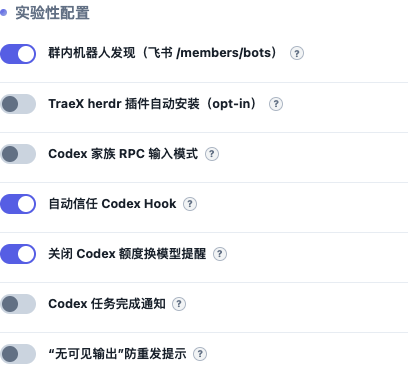
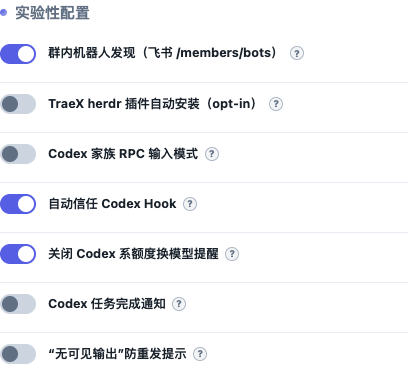
fix(cli): 补齐 TraeX 额度提醒保护与网关参数兼容

Changed region(s): [[0.2941, 0.617, 0.5882, 0.6787]]

diff --git a/test/codex-model-nudge.test.ts b/test/codex-model-nudge.test.ts
@@ -6,10 +6,11 @@ import { config } from '../src/config.js';
 import { globalConfigPath, mergeDashboardConfig } from '../src/global-config.js';
 import { createCodexAdapter } from '../src/adapters/cli/codex.js';
 import { createTraexAdapter } from '../src/adapters/cli/traex.js';
+import { ALL_CLI_IDS, createCliAdapterSync } from '../src/adapters/cli/registry.js';
 
 const override = 'notice.hide_rate_limit_model_nudge=true';
 
-describe('Codex low-quota model-switch protection', () => {
+describe('Codex-family low-quota model-switch protection', () => {
   let fixtureDir: string;
   beforeEach(() => {
     fixtureDir = mkdtempSync(join(tmpdir(), 'botmux-model-nudge-'));
@@ -24,46 +25,59 @@ describe('Codex low-quota model-switch protection', () => {
     rmSync(fixtureDir, { recursive: true, force: true });
   });
 
-  it.each([
+  const launches = [
     { kind: 'fresh', resume: false },
     { kind: 'resume', resume: true, resumeSessionId: 'existing-thread' },
     { kind: 'fork', resume: true, forkSession: true, resumeSessionId: 'existing-thread' },
     { kind: 'RPC viewer', resume: true, remoteWsUrl: 'ws://127.0.0.1:9000', remoteThreadId: 'existing-thread' },
-  ])('protects $kind launches by default and preserves opt-out across reloads', (launch) => {
-    const adapter = createCodexAdapter('/usr/bin/codex');
-    for (const enabled of [undefined, false, true]) {
-      if (enabled !== undefined) mergeDashboardConfig({ hideCodexRateLimitModelNudge: enabled });
-      for (const restricted of [false, true]) {
-        const args = adapter.buildArgs({
-          sessionId: 'botmux-thread', ...launch,
-          model: 'gpt-6-astra',
-          disableCliBypass: restricted,
-          hideRateLimitModelNudge: config.hideCodexRateLimitModelNudge,
-        });
-        expect(args.includes(override)).toBe(enabled !== false);
-        expect(args).not.toContain('notice.hide_rate_limit_model_nudge=false');
-        if (enabled !== false) {
-          expect(args[args.indexOf(override) - 1]).toBe('-c');
-          if (args.includes('existing-thread')) {
-            expect(args.indexOf(override)).toBeLessThan(args.indexOf('existing-thread'));
+  ];
+  const adapters = [
+    { cli: 'Codex', adapter: createCodexAdapter('/usr/bin/codex'), launches },
+    { cli: 'SpineCodex path override', adapter: createCodexAdapter('/usr/bin/spine-codex'), launches },
+    { cli: 'TraeX', adapter: createTraexAdapter('/usr/bin/traex'), launches: launches.filter(l => l.kind !== 'fork') },
+  ];
+  it.each(adapters.flatMap(({ cli, adapter, launches }) => launches.map(launch => ({ cli, adapter, kind: launch.kind, launch }))))(
+    'protects $cli $kind launches by default and preserves opt-out across reloads', ({ adapter, launch }) => {
+      for (const enabled of [undefined, false, true]) {
+        if (enabled !== undefined) mergeDashboardConfig({ hideCodexRateLimitModelNudge: enabled });
+        for (const restricted of [false, true]) {
+          const args = adapter.buildArgs({
+            sessionId: 'botmux-thread', ...launch,
+            model: 'gpt-6-astra',
+            disableCliBypass: restricted,
+            hideRateLimitModelNudge: config.hideCodexRateLimitModelNudge,
+          });
+          expect(args.includes(override)).toBe(enabled !== false);
+          expect(args).not.toContain('notice.hide_rate_limit_model_nudge=false');
+          if (enabled !== false) {
+            expect(args[args.indexOf(override) - 1]).toBe('-c');
+            if (args.includes('existing-thread')) {
+              expect(args.indexOf(override)).toBeLessThan(args.indexOf('existing-thread'));
+            }
           }
+          if (!launch.remoteWsUrl) expect(args[args.indexOf('--model') + 1]).toBe('gpt-6-astra');
         }
-        if (!launch.remoteWsUrl) expect(args[args.indexOf('--model') + 1]).toBe('gpt-6-astra');
       }
-    }
-    expect(readFileSync(join(fixtureDir, '.codex/config.toml'), 'utf8')).toBe('model = "gpt-6-astra"\n');
-  });
+      expect(readFileSync(join(fixtureDir, '.codex/config.toml'), 'utf8')).toBe('model = "gpt-6-astra"\n');
+    },
+  );
 
   it('ignores malformed persisted values and retains the default protection', () => {
     writeFileSync(globalConfigPath(), JSON.stringify({ dashboard: { hideCodexRateLimitModelNudge: 'false' } }));
     expect(config.hideCodexRateLimitModelNudge).toBe(true);
   });
 
-  it('does not pass Codex-specific notice settings to another CLI', () => {
-    const args = createTraexAdapter('/usr/bin/traex').buildArgs({
-      sessionId: 'other-cli', resume: false,
-      hideRateLimitModelNudge: config.hideCodexRateLimitModelNudge,
-    });
-    expect(args.join(' ')).not.toContain('hide_rate_limit_model_nudge');
-  });
+  it.each(ALL_CLI_IDS.filter(id => id !== 'codex' && id !== 'traex'))(
+    'does not alter %s launch arguments when protection is toggled', (id) => {
+      const adapter = createCliAdapterSync(id, `/usr/bin/${id}`);
+      const args = adapter.buildArgs({
+        sessionId: 'other-cli', resume: false,
+        hideRateLimitModelNudge: config.hideCodexRateLimitModelNudge,
+      });
+      expect(args.join(' ')).not.toContain('hide_rate_limit_model_nudge');
+      expect(args).toEqual(adapter.buildArgs({
+        sessionId: 'other-cli', resume: false, hideRateLimitModelNudge: false,
+      }));
+    },
+  );
 });

diff --git a/src/dashboard/web/i18n.ts b/src/dashboard/web/i18n.ts
@@ -1545,8 +1545,8 @@ const zh = {
   'settings.herdrTraexUnsupported': '当前 herdr 不支持插件；需 ≥ 0.7.0，请先运行 herdr update',
   'settings.codexRpcInput': 'Codex 家族 RPC 输入模式',
   'settings.codexRpcInputHelp': '实验性，默认关闭。对 codex / traex 机器人（仅 tmux 后端），用户消息经 app-server JSON-RPC 通道注入，绕开 codex 终端粘贴丢消息的问题（pane 仍跑真实 --remote TUI 渲染）。sandbox/隔离/审批门控/wrapper/带启动命令的会话自动回退传统粘贴。',
-  'settings.hideCodexRateLimitModelNudge': '关闭 Codex 额度换模型提醒',
-  'settings.hideCodexRateLimitModelNudgeHelp': '默认开启。关闭额度接近上限时的换模型弹窗，避免发送消息的回车误确认切换。仅影响 Botmux 启动的 Codex，关闭后遵循 Codex 自身配置。新启动的 CLI 进程生效，不会切回已有会话的模型，也不会增加额度。',
+  'settings.hideCodexRateLimitModelNudge': '关闭 Codex 系额度换模型提醒',
+  'settings.hideCodexRateLimitModelNudgeHelp': '默认开启。关闭 Codex / TraeX 在额度接近上限时的换模型弹窗，避免发送消息的回车误确认切换。关闭后遵循 CLI 自身配置；Aiden 网关不支持此参数。新启动的 CLI 进程生效，不会切回已有会话的模型，也不会增加额度。',
   'settings.bypassCodexHookTrust': '自动信任 Codex Hook',
   'settings.bypassCodexHookTrustHelp': '默认开启。Codex 0.14x 会弹交互式 hook 信任门（Press t to trust）；botmux 每次升级重写自装 hook 会让 hash 变化、门重新弹出，托管会话没人能按 t → 首条消息卡死。开启后对 codex / traex 普通 TUI 传 --dangerously-bypass-hook-trust。注意：该 flag 信任 codex 见到的所有 hook 来源（含项目 .codex/hooks.json 与已启用插件），不只 botmux 自装的；不想自动信任第三方项目/插件 hook 可关闭。受限机器人（关绕过）始终不受影响。下次会话生效，不影响已存活的 pane。',
   'settings.codexNotifier': 'Codex 任务完成通知',
@@ -4460,8 +4460,8 @@ const en: Record<keyof typeof zh, string> = {
   'settings.herdrTraexUnsupported': 'This herdr does not support plugins; requires >= 0.7.0. Run herdr update first',
   'settings.codexRpcInput': 'Codex-family RPC input mode',
   'settings.codexRpcInputHelp': 'Experimental, off by default. For codex / traex bots (tmux backend only), user messages are injected via the app-server JSON-RPC channel, bypassing codex terminal paste-drops (the pane still runs the real --remote TUI). Sandbox/isolation/approval-gated/wrapper/startup-command sessions fall back to paste.',
-  'settings.hideCodexRateLimitModelNudge': 'Hide Codex quota model-switch reminder',
-  'settings.hideCodexRateLimitModelNudgeHelp': 'On by default. Suppresses the low-quota model-switch picker so a message submit cannot accidentally confirm a switch. Applies only to Codex launched by Botmux; turn off to follow Codex settings. Takes effect for newly started CLI processes. Does not restore existing session models or increase quota.',
+  'settings.hideCodexRateLimitModelNudge': 'Hide Codex-family quota model-switch reminder',
+  'settings.hideCodexRateLimitModelNudgeHelp': 'On by default. Suppresses the Codex / TraeX low-quota model-switch picker so a message submit cannot accidentally confirm a switch. Turn off to follow CLI settings. The Aiden gateway cannot forward this option. Takes effect for newly started CLI processes. Does not restore existing session models or increase quota.',
   'settings.bypassCodexHookTrust': 'Auto-trust Codex hooks',
   'settings.bypassCodexHookTrustHelp': 'On by default. Codex 0.14x shows an interactive hook-trust gate ("Press t to trust"); every botmux upgrade rewrites its bundled hook so the hash changes and the gate re-fires, and a botmux-managed session has no one to press t → the first message wedges. When on, codex / traex plain-TUI launches pass --dangerously-bypass-hook-trust. Note: that flag trusts ALL hook sources codex sees (including a project .codex/hooks.json and enabled plugins), not only botmux\'s — turn it off if you do not want third-party project/plugin hooks auto-trusted. Restricted bots (bypass disabled) are never affected. Takes effect on the next session; running panes are unchanged.',
   'settings.codexNotifier': 'Codex task completion notifications',

diff --git a/src/adapters/cli/traex.ts b/src/adapters/cli/traex.ts
@@ -227,7 +227,12 @@ export function createTraexAdapter(pathOverride?: string): CliAdapter {
     sandboxReadonlyPaths: () => [...TRAE_MIGRATION_DONE_MARKERS],
     get resolvedBin(): string { return (cachedBin ??= resolveCommand(rawBin)); },
 
-    buildArgs({ sessionId, resume, resumeSessionId, workingDir, model, reasoningEffort, modelBackendVariant, disableCliBypass, bypassHookTrust, remoteWsUrl, remoteThreadId, shellSubprocessEnv, nativeSubagentRuntimeHookCommand }) {
+    buildArgs({ sessionId, resume, resumeSessionId, workingDir, model, reasoningEffort, modelBackendVariant, disableCliBypass, bypassHookTrust, hideRateLimitModelNudge, remoteWsUrl, remoteThreadId, shellSubprocessEnv, nativeSubagentRuntimeHookCommand }) {
+      // TraeX shares Codex's low-quota picker and notice setting. Disable it
+      // per process so a message-submit Enter cannot confirm a model switch.
+      const modelNudgeArgs = hideRateLimitModelNudge
+        ? ['-c', 'notice.hide_rate_limit_model_nudge=true']
+        : [];
       // Hybrid RPC input mode (codex-family): attach the TUI to the botmux-owned
       // app-server thread; input flows via JSON-RPC (see codex-rpc-engine + worker)
       // instead of a drop-prone paste. TRAE CLI shares codex's --remote/resume
@@ -236,7 +241,7 @@ export function createTraexAdapter(pathOverride?: string): CliAdapter {
         // -c check_for_update_on_startup=false: RPC pane has no terminal input path,
         // so an interactive update dialog would freeze the resume. TraeX shares
         // codex's config schema; disable at the process level, never user-global.
-        return ['--remote', remoteWsUrl, 'resume', '--no-alt-screen', '-c', 'check_for_update_on_startup=false', remoteThreadId];
+        return ['--remote', remoteWsUrl, 'resume', '--no-alt-screen', '-c', 'check_for_update_on_startup=false', ...modelNudgeArgs, remoteThreadId];
       }
       const baseArgs = [
         ...(!disableCliBypass ? [
@@ -252,6 +257,7 @@ export function createTraexAdapter(pathOverride?: string): CliAdapter {
           ...(bypassHookTrust ? ['--dangerously-bypass-hook-trust'] : []),
         ] : []),
         '--no-alt-screen',
+        ...modelNudgeArgs,
         ...goalEnvConfigArgs(),
       ];
       // Keep trigger-user identity wrappers available in tool shells. Set only

diff --git a/test/cli-selection.test.ts b/test/cli-selection.test.ts
@@ -663,3 +663,39 @@ describe('decorateResumeForWrapper', () => {
       .toBe('ttadk coco --skip-check --resume ID');
   });
 });
+
+describe('Codex model-nudge override through wrappers', () => {
+  const override = 'notice.hide_rate_limit_model_nudge=true';
+  it.each([
+    { wrapper: 'aiden x codex', flag: null },
+    { wrapper: 'cjadk codex', flag: '--config' },
+    { wrapper: 'ttadk codex', flag: '-c' },
+  ])('$wrapper handles the enabled override without breaking launch', ({ wrapper, flag }) => {
+    for (const resume of [false, true]) {
+      const args = createCodexAdapter('/usr/bin/codex').buildArgs({
+        sessionId: 'session', resume, resumeSessionId: 'existing-thread',
+        hideRateLimitModelNudge: true,
+      });
+      expect(args).toContain(override);
+      const out = buildWrappedLaunch(wrapper, args);
+      if (flag === null) {
+        expect(out.args).not.toContain(override);
+        expect(out.args).not.toContain('-c');
+        expect(out.args).not.toContain('--config');
+      } else {
+        expect(out.args).toContain(override);
+        expect(out.args[out.args.indexOf(override) - 1]).toBe(flag);
+        if (flag === '--config') expect(out.args).not.toContain('-c');
+      }
+      expect(out.args).toContain('--no-alt-screen');
+      if (resume) expect(out.args).toContain('existing-thread');
+    }
+  });
+
+  it.each(['aiden x codex', 'cjadk codex', 'ttadk codex'])(
+    '%s leaves user-provided notice overrides untouched', (wrapper) => {
+      const userArgs = ['-c', 'notice.hide_rate_limit_model_nudge=false'];
+      expect(buildWrappedLaunch(wrapper, userArgs).args.slice(-2)).toEqual(userArgs);
+    },
+  );
+});

diff --git a/src/setup/cli-selection.ts b/src/setup/cli-selection.ts
@@ -327,7 +327,7 @@ export function stripSettingsArgs(args: ReadonlyArray<string>): string[] {
  *     路径底层 claude 从不注入此 flag，剥除是 no-op。
  * 这些参数承载的 session 环境已在进程级 env（BOTMUX_SESSION_ID 等）注入、并被 wrapper
  * 子进程继承（见 worker.ts childEnv），故剥掉只是去掉一条冗余的 belt-and-suspenders
- * 通道，不丢功能。关闭启动更新的覆盖在 aiden 路径无法传递（launcher 本身禁止 config）；
+ * 通道。关闭启动更新和额度换模型提醒的覆盖在 aiden 路径无法传递（launcher 本身禁止 config）；
  * worker 会在极少数仍出现选择器的启动中自动选择非升级项，host 侧仍会做每日只读检查。
  * `-c` 按 botmux 注入白名单精确识别，用户自带的
  * `-c key=val` 一律不动；`--settings` 则沿用 aiden x claude 历来的兼容策略

diff --git a/src/global-config.ts b/src/global-config.ts
@@ -309,9 +309,9 @@ export interface DashboardGlobalConfig {
    *  fail-closed lower bound (a restricted bot never gets it regardless). Read live
    *  by the daemon — see config.ts `bypassCodexHookTrust`. */
   bypassCodexHookTrust?: boolean;
-  /** Suppress Codex's low-quota model-switch picker for managed launches.
+  /** Suppress Codex/TraeX's low-quota model-switch picker for managed launches.
    *  Default ON; false leaves the CLI's own notice configuration in control.
-   *  Applied per process; never edits the user's Codex config. */
+   *  Applied per process; never edits the user's CLI config. Aiden's gateway cannot forward it. */
   hideCodexRateLimitModelNudge?: boolean;
   /** Experimental: inject the "no visible output" anti-resend guidance into the
    *  botmux routing hints. Counters Claude Code (≥2.1.212) thinking-only nudges

diff --git a/src/adapters/cli/types.ts b/src/adapters/cli/types.ts
@@ -204,7 +204,7 @@ export interface CliAdapter {
      *  treated as false by adapters (the worker always sends an explicit boolean
      *  for codex/traex). Does NOT apply to `--remote`/app-server/exec paths. */
     bypassHookTrust?: boolean;
-    /** Codex only: suppress the low-quota model-switch picker per process.
+    /** Codex-family (codex/traex): suppress the low-quota model-switch picker per process.
      *  The worker supplies the global default-ON setting; false/absent adds no override. */
     hideRateLimitModelNudge?: boolean;
     /** Optional session-scoped skill plugin/root prepared by botmux. */
